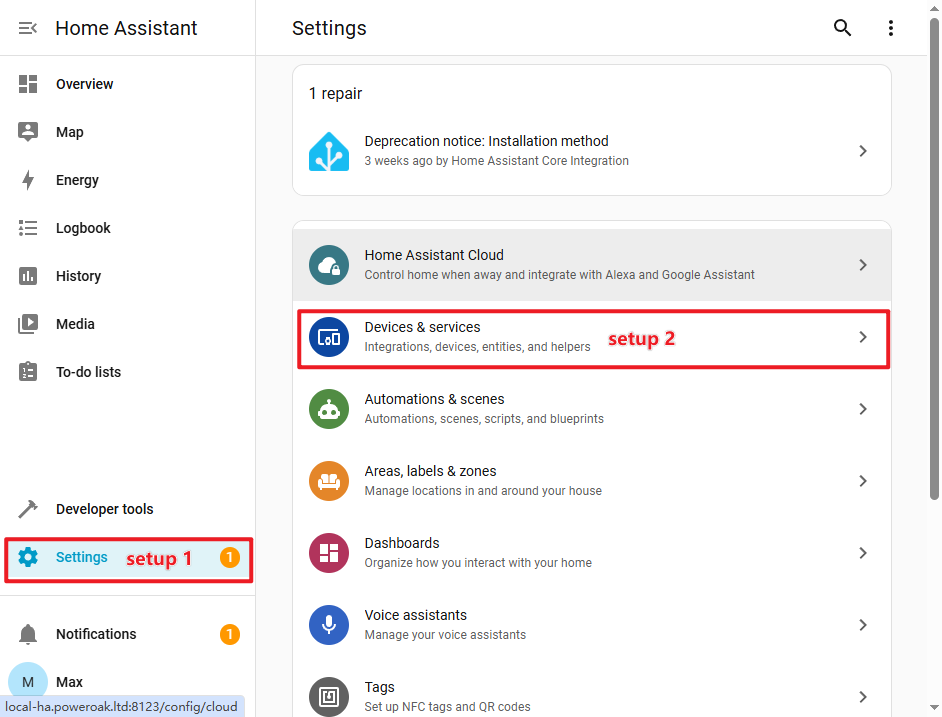
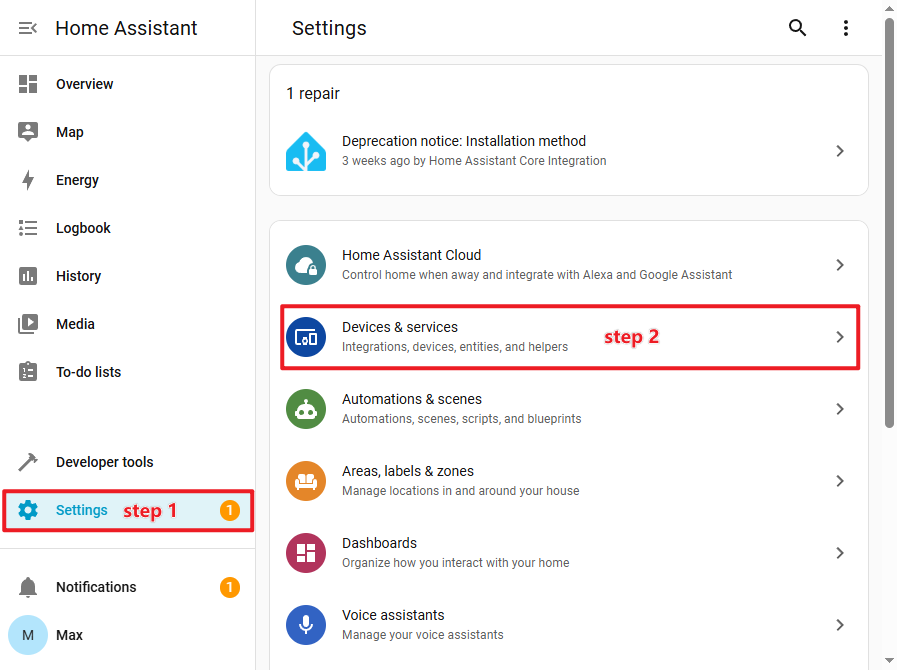
Update and translate the integration installation documents.

diff --git a/README.md b/README.md
@@ -1,2 +1,65 @@
-# bluetti-home-assistant
-BLUETTI Integration for Home Assistant
+# BLUETTI Integration for Home Assistant
+
+[English](./README.md) | [简体中文](./README_zh.md)
+
+BLUETTI Power Station Integration is an integrated component of Home Assistant supported by BLUETTI official. It allows you to use BLUETTI smart Power Station devices in Home Assistant.
+
+The Integration's github repository is: https://github.com/bluetti-official/bluetti-home-assistant.
+
+# ✨ Features
+
+- ✅ Inverter Status  
+- ✅ Battery state of charge (SOC)  
+- ✅ Estimated battery life
+- ✅ AC/DC ECO 
+- ✅ AC/DC Switch  
+- ✅ Main unit power switch  
+- ✅ Work mode switch: 自发自用，备用电源，削峰填谷 
+- ✅ Disaster Warning 
+
+# 🎮 Power Station Support List
+> tips: More power station models will be added successively in the future.
+
+|        | Inverter Status | Battery SOC | Estimated battery life  | AC/DC ECO | AC/DC Switch | power switch | Work mode switch | Disaster Warning |
+|--------|-----------------|-------------|-------------------------|-----------|--------------|--------------|------------------|------------------|
+| EP13K  | ✅              | ✅         | ✅                      |           |              | ✅          | ✅               | ✅               |
+| EP6K   | ✅              | ✅         | ✅                      |           |              | ✅          | ✅               | ✅               |
+| EP2000 | ✅              | ✅         | ✅                      |           |              | ✅          | ✅               | ✅               |
+| FP     | ✅              | ✅         | ✅                      | ✅        | ✅          | ✅          | ✅               | ✅               |
+
+# 📦 Integration installation
+
+There are two ways to install `BLUETTI Power Station Integration`.
+
+## Install manually
+
+1. Enter the `Home Assistant` configuration directory
+```shell
+$ cd /<ha workspaces>/core/config/custom_components
+```
+2. Clone `BLUETTI Power Station Integration` github repository.
+```shell
+$ git clone https://github.com/bluetti-official/bluetti-home-assistant.git
+```
+3. Or download the integrated zip file and extract it to the custom integration directory of `Home Assistant`:
+```shell
+$ unzip xxx.zip -d /<ha workspaces>/core/config/custom_components/bluetti
+```
+4. Reboot your `Home Assistant` system.
+<hr/>
+
+## Install by HACS
+
+As the `BLUETTI Power Station Integration` has not yet been submitted to the official HACS repository, it is necessary to manually add a custom repository. HACS itself is a Home Assistant plugin (users need to install HACS first), similar to an app store. Through this app store, other third-party integrations can be installed.
+
+1. Follow the steps "HACS -> Integration -> Custom Repository (it is in the upper right corner of the page)".
+2. Add repository and make the type selection:
+   - repository: https://github.com/bluetti-official/bluetti-home-assistant.git
+   - type selection: Integration
+3. Then, on the "Integration" page of HACS, you can see the `BLUETTI` Integration. Click to install.
+4. Finally, Reboot your `Home Assistant` system.
+
+# ⚙ Integration configuration
+
+1. Follow the steps "Settings -> Devices & services", click to enter the integrated list page.   
+   <img src="./doc/images/1-setting_devices_and_services.png">

diff --git a/README_zh.md b/README_zh.md
@@ -19,7 +19,6 @@ BLUETTI储能集成github仓库地址：https://github.com/bluetti-official/blue
 
 # 🎮 机型支持清单
 
-
 |        | 设备<br/>运行状态 | 查询<br/>电量SOC | 预估<br/>续航时间 | AC/DC开关 | 整机电源开关 | 工作模式切换 | ECO模式切换 | 灾害预警功能 |
 |--------|--------|---------|--------|---------|--------|--------|---------|--------|
 | EP13K  | ✅      | ✅       | ✅      |         | ✅      | ✅      |         | ✅      |
@@ -55,7 +54,7 @@ $ unzip xxx.zip -d /<ha workspaces>/core/config/custom_components/bluetti
 ```shell
 https://github.com/bluetti-official/bluetti-home-assistant.git
 ```
-类型选择：Integration
+类型选择：Integration  
 3. 接着在 HACS 的“集成”页面，就能看到Bluetti的插件，点击安装。
 4. 安装后，重启Home Assistant。
 <hr/>
